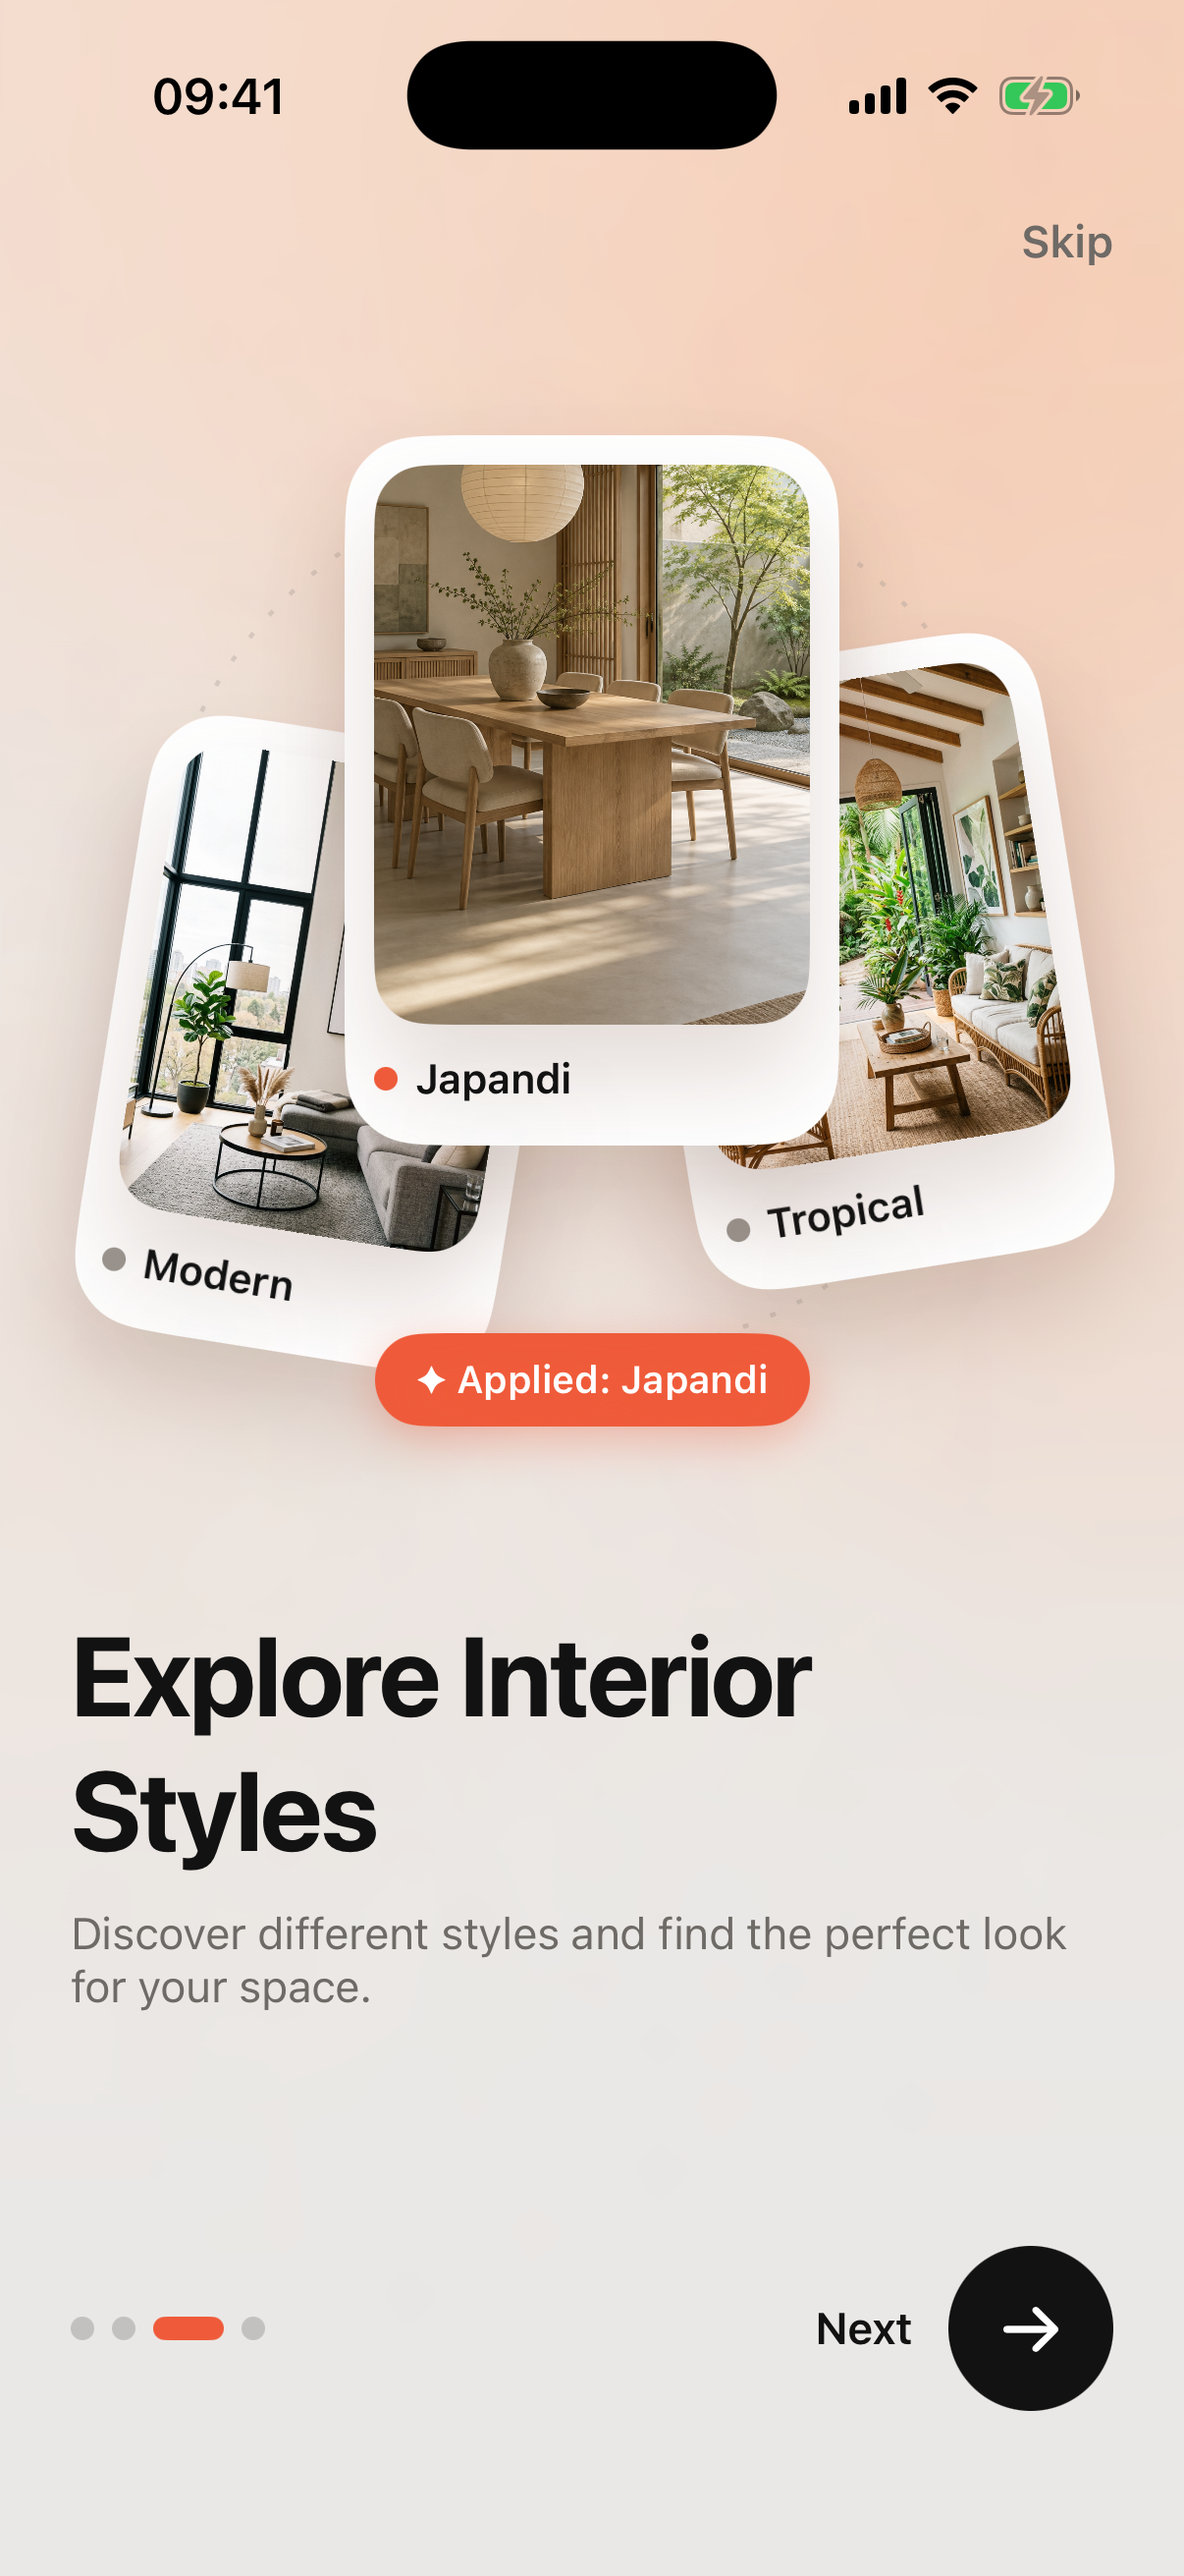
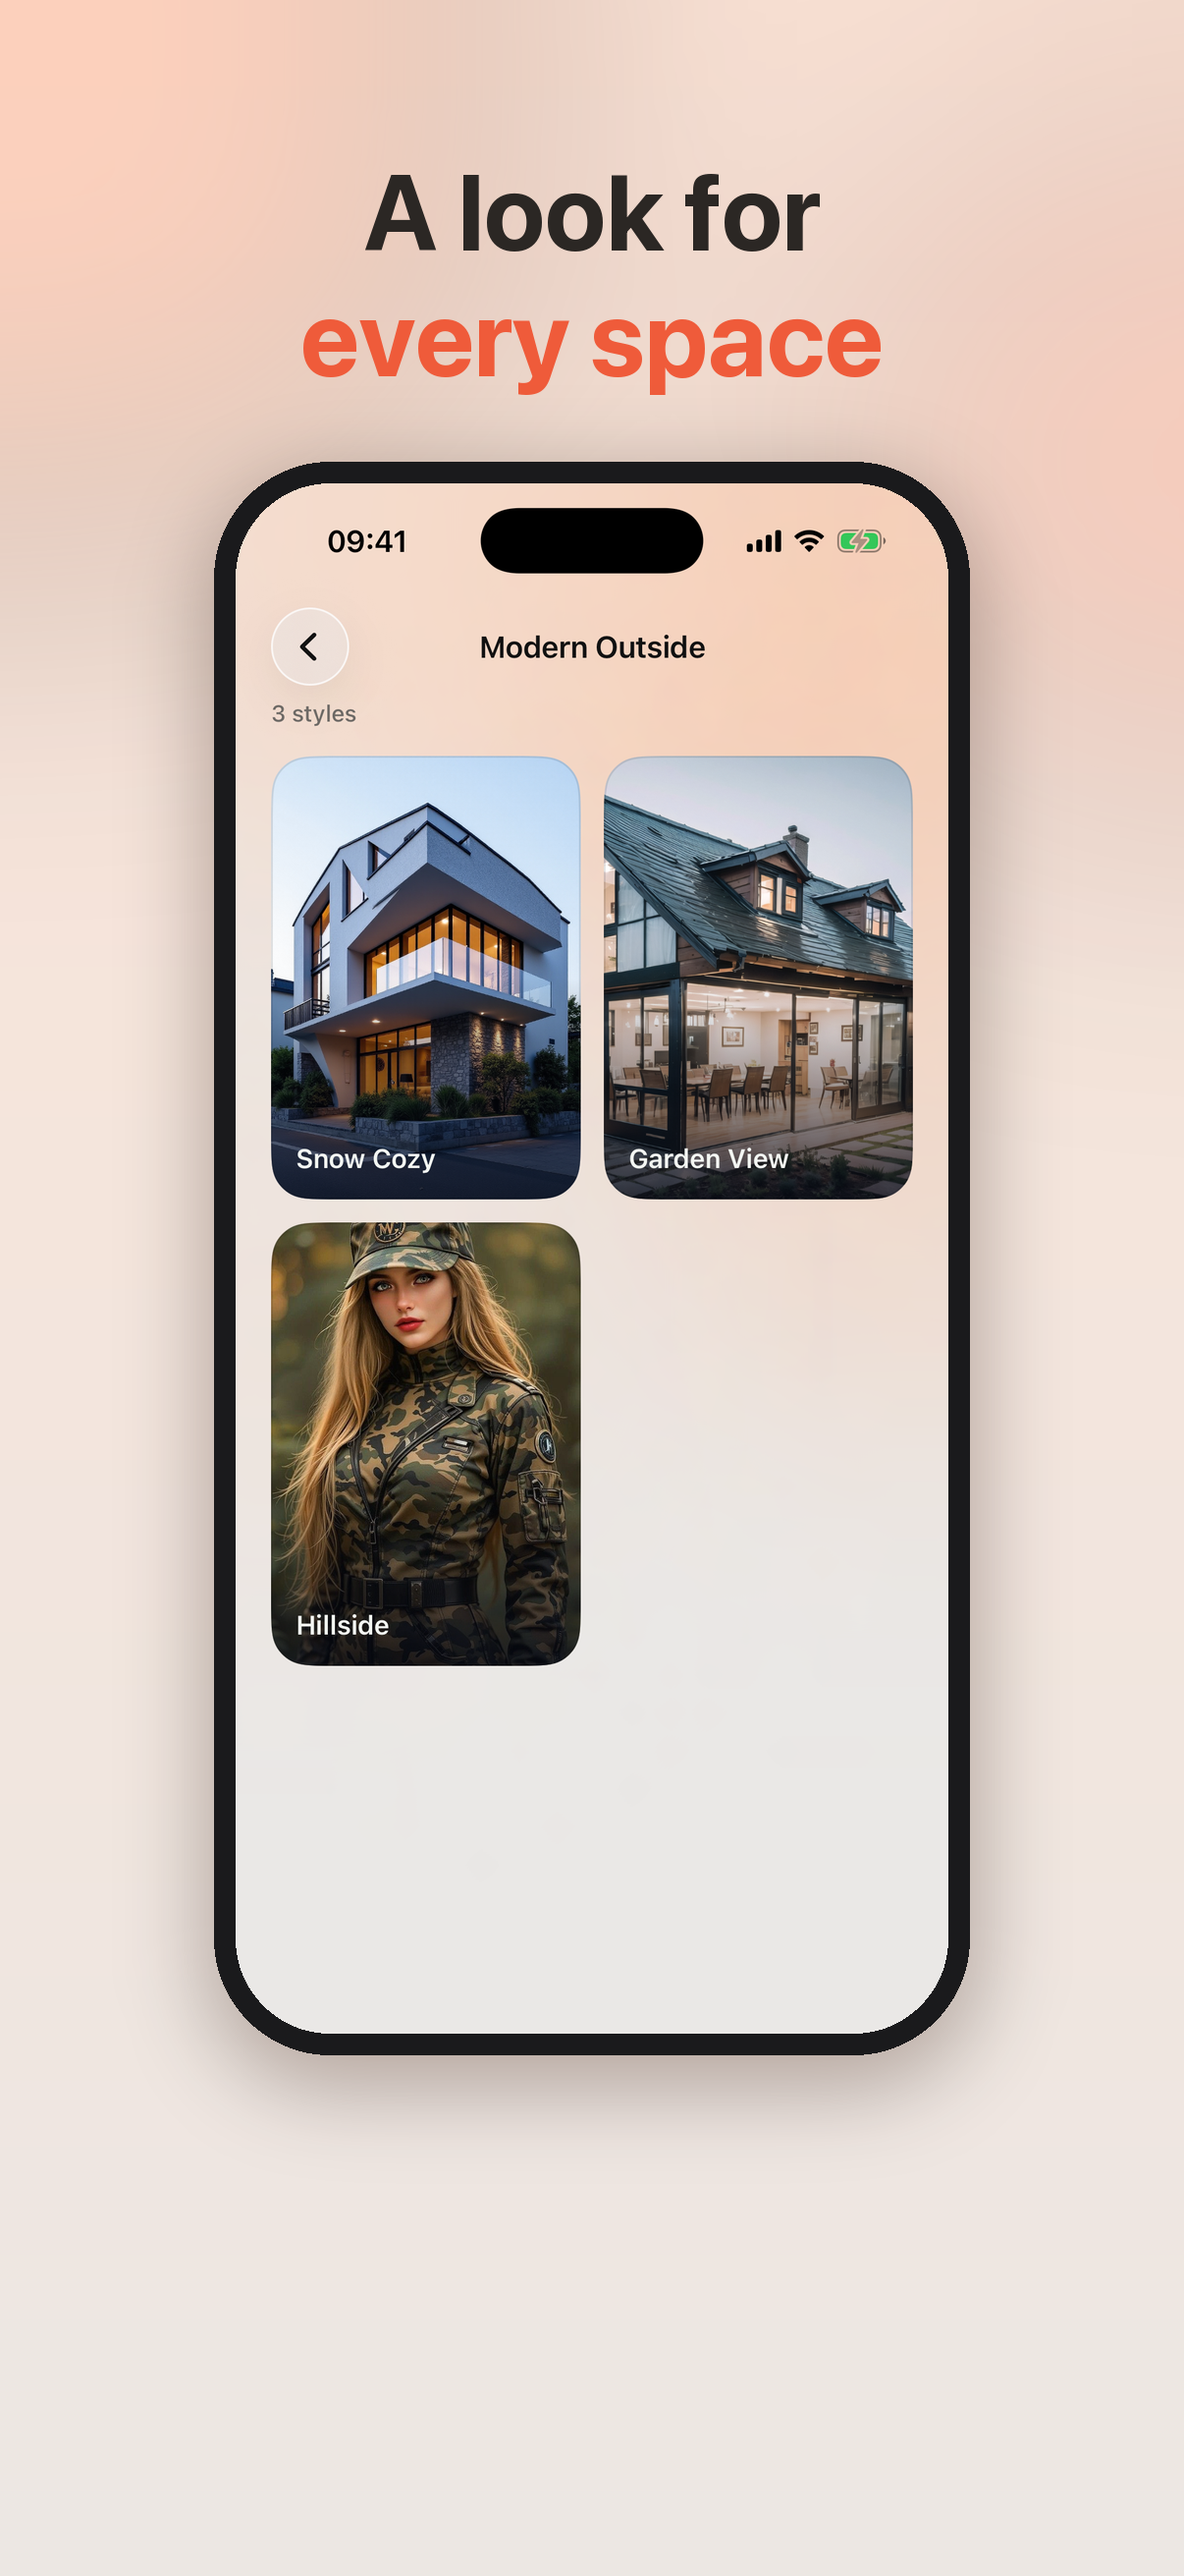
Marketing App Store screenshots (branded frame + headline + mockup)
Replace the raw app captures with proper marketing screenshots, matching the
3dmap reference style: Coral-Glass gradient + glow background, a bold two-tone
headline, and the real app UI inside a phone mockup with a drop shadow.

- scripts/store/make_screenshots.py — Pillow compositor (1206×2622 + a
  1290×2796 source copy), headlines configurable in FRAMES
- scripts/store/shots/ — the 5 raw app captures (home, chat, category,
  detail, language) it composes from, for re-rendering
- AppStore/screenshots/en/ — 5 frames: Reimagine any room / Your own AI
  Designer / A look for every space / Try any style in seconds / Private —
  16 languages
- Update screenshots/README.md + metadata.md

diff --git a/scripts/store/make_screenshots.py b/scripts/store/make_screenshots.py
@@ -1,0 +1,134 @@
+#!/usr/bin/env python3
+"""Compose App Store *marketing* screenshots for Abodi.
+
+Each frame = branded Coral-Glass background + a bold two-tone headline + the
+real app screenshot inside a phone mockup. Output 1206x2622 (iPhone Dynamic
+Island "medium display" slot). Re-run after recapturing the raw app screens:
+
+    python3 scripts/store/make_screenshots.py
+
+Raw app screens (1206x2622) are read from scripts/store/shots/ ; put recaptured
+ones there (xcrun simctl io "iPhone 17 Pro" screenshot <name>.png).
+"""
+import pathlib
+from PIL import Image, ImageDraw, ImageFont, ImageFilter
+
+ROOT = pathlib.Path(__file__).resolve().parents[2]
+SHOTS = pathlib.Path(__file__).resolve().parent / "shots"
+OUT = ROOT / "AppStore" / "screenshots" / "en"
+SRC = ROOT / "AppStore" / "screenshots" / "src-1290x2796"
+
+W, H = 1206, 2622
+INK = (43, 39, 36)
+CORAL = (239, 91, 58)
+
+# Background gradient (top warm peach -> soft light), matching Coral Glass.
+TOP = (251, 227, 214)
+BOT = (236, 231, 227)
+
+
+def load_font(size, bold=True):
+    # Prefer SF Pro (matches iOS); fall back to Arial Bold.
+    try:
+        f = ImageFont.truetype("/System/Library/Fonts/SFNS.ttf", size)
+        if bold:
+            try: f.set_variation_by_name("Bold")
+            except Exception:
+                try: f.set_variation_by_axes([700])
+                except Exception: pass
+        return f
+    except Exception:
+        p = "/System/Library/Fonts/Supplemental/Arial Bold.ttf" if bold \
+            else "/System/Library/Fonts/Supplemental/Arial.ttf"
+        return ImageFont.truetype(p, size)
+
+
+def background():
+    bg = Image.new("RGB", (W, H))
+    px = bg.load()
+    for y in range(H):
+        t = y / H
+        px0 = tuple(round(TOP[i] + (BOT[i] - TOP[i]) * t) for i in range(3))
+        for x in range(W):
+            px[x, y] = px0
+    # Soft coral glow blobs for depth.
+    glow = Image.new("RGBA", (W, H), (0, 0, 0, 0))
+    gd = ImageDraw.Draw(glow)
+    gd.ellipse([-260, -200, 520, 560], fill=(255, 158, 120, 70))
+    gd.ellipse([820, 120, 1500, 820], fill=(239, 91, 58, 45))
+    glow = glow.filter(ImageFilter.GaussianBlur(170))
+    bg = Image.alpha_composite(bg.convert("RGBA"), glow)
+    return bg.convert("RGB")
+
+
+def rounded_mask(size, radius):
+    m = Image.new("L", size, 0)
+    ImageDraw.Draw(m).rounded_rectangle([0, 0, size[0] - 1, size[1] - 1], radius=radius, fill=255)
+    return m
+
+
+def draw_centered(draw, text, font, y, fill):
+    w = draw.textbbox((0, 0), text, font=font)[2]
+    draw.text(((W - w) / 2, y), text, font=font, fill=fill)
+
+
+def render(shot_name, line1, line2, out_name):
+    canvas = background()
+    draw = ImageDraw.Draw(canvas)
+
+    # Headline (two lines, two-tone).
+    font = load_font(108)
+    lh = 128
+    top = 150
+    draw_centered(draw, line1, font, top, INK)
+    draw_centered(draw, line2, font, top + lh, CORAL)
+
+    # Phone mockup with the real screenshot.
+    shot = Image.open(SHOTS / shot_name).convert("RGB")
+    screen_w = 726
+    screen_h = round(screen_w * H / W)          # keep the 1206:2622 aspect
+    shot = shot.resize((screen_w, screen_h), Image.LANCZOS)
+    s_rad = 96
+    shot.putalpha(rounded_mask((screen_w, screen_h), s_rad))
+
+    bezel = 22
+    pw, ph = screen_w + 2 * bezel, screen_h + 2 * bezel
+    phone = Image.new("RGBA", (pw, ph), (0, 0, 0, 0))
+    ImageDraw.Draw(phone).rounded_rectangle([0, 0, pw - 1, ph - 1], radius=s_rad + bezel,
+                                            fill=(26, 26, 28, 255))
+    phone.alpha_composite(shot, (bezel, bezel))
+
+    px = (W - pw) // 2
+    py = 470
+    # Drop shadow.
+    shadow = Image.new("RGBA", (W, H), (0, 0, 0, 0))
+    ImageDraw.Draw(shadow).rounded_rectangle([px, py + 26, px + pw, py + ph + 26],
+                                             radius=s_rad + bezel, fill=(80, 40, 25, 90))
+    shadow = shadow.filter(ImageFilter.GaussianBlur(44))
+    canvas = Image.alpha_composite(canvas.convert("RGBA"), shadow)
+    canvas.alpha_composite(phone, (px, py))
+
+    OUT.mkdir(parents=True, exist_ok=True)
+    SRC.mkdir(parents=True, exist_ok=True)
+    final = canvas.convert("RGB")
+    final.save(OUT / out_name)
+    # 6.9" source copy at 1290x2796.
+    final.resize((1290, 2796), Image.LANCZOS).save(SRC / out_name)
+    print("wrote", OUT / out_name)
+
+
+FRAMES = [
+    ("home.png",     "Reimagine",      "any room",      "01_reimagine.png"),
+    ("chat.png",     "Your own",       "AI Designer",   "02_aidesigner.png"),
+    ("category.png", "A look for",      "every space",   "03_styles.png"),
+    ("detail.png",   "Try any style",  "in seconds",    "04_tryit.png"),
+    ("language.png", "Private —",       "16 languages",  "05_languages.png"),
+]
+
+if __name__ == "__main__":
+    # Clear the old raw captures so only the marketing set remains.
+    for old in OUT.glob("*.png"):
+        old.unlink()
+    for src, l1, l2, out in FRAMES:
+        render(src, l1, l2, out)
+    print("done:", len(FRAMES), "frames")

diff --git a/AppStore/screenshots/README.md b/AppStore/screenshots/README.md
@@ -1,38 +1,34 @@
-# App Store screenshots (Abodi Home)
+# App Store screenshots (Abodi)
 
-**Trạng thái: ĐÃ CÓ BỘ ĐẦU** — 6 ảnh chụp từ app thật (English) ở `en/`, **1206×2622** (hợp lệ cho ô "iPhone with Dynamic Island (medium display)"), nộp lên store được luôn.
+**Marketing screenshots** (không phải raw app capture): nền Coral-Glass + headline lớn 2 màu + mockup điện thoại chứa UI app thật — giống bộ của dự án mẫu 3dmap.
 
-> 4 ảnh đầu là **màn onboarding intro** của app (đã thiết kế sẵn: before/after + headline — rất hợp làm ảnh store); 2 ảnh cuối là màn **Home** và **AI Designer** thật. Muốn "xịn" hơn (thêm nền/headline marketing riêng) thì dựng frame trong Figma rồi thay vào. ⚠ Khi AI đã wire thật, nên chụp lại ảnh có **kết quả generate thật** để không lệch app.
+- `en/` — 5 ảnh **1206×2622** (ô "iPhone with Dynamic Island (medium display)").
+- `src-1290x2796/` — bản **1290×2796** (ô "iPhone 6.9" Display" nếu có).
 
-## Size nộp lên App Store Connect
+## Bộ 5 ảnh (thứ tự upload)
 
-| Ô trên App Store Connect | Kích thước nhận | Thư mục |
-|---|---|---|
-| iPhone with Dynamic Island (medium display) | 1206×2622 **hoặc** 1179×2556 | `en/` |
-| iPhone 6.9" Display (nếu có ô này) | 1290×2796 hoặc 1320×2868 | `src-1290x2796/` |
+| # | File | Headline | Màn app |
+|---|---|---|---|
+| 1 | `01_reimagine` | Reimagine **any room** | Home/Create (hero before/after) |
+| 2 | `02_aidesigner` | Your own **AI Designer** | Màn chat AI |
+| 3 | `03_styles` | A look for **every space** | Lưới style (See all) |
+| 4 | `04_tryit` | Try any style **in seconds** | Style detail |
+| 5 | `05_languages` | Private — **16 languages** | Màn chọn ngôn ngữ (cờ) |
 
-- Đặt bản gốc **1290×2796** vào `src-1290x2796/`, bản resize **1179×2556** (cùng tỉ lệ, không méo) vào `en/`.
-- Nếu `TARGETED_DEVICE_FAMILY = "1"` (chỉ iPhone, khuyến nghị) → **không cần ảnh iPad**. Nếu giữ `"1,2"` thì phải thêm ảnh **iPad 13"** (2064×2752).
-- Trang store chỉ English → chỉ cần bộ `en/`. Tối đa 10 ảnh/ô (dùng 6).
+## Tạo lại
 
-## 6 ảnh hiện có (`en/`, thứ tự upload)
+Ảnh được **compose bằng script** (Pillow), không dựng tay:
 
-1. `01_makeover` — **AI Room Makeover** (intro: before/after + "Reimagine any room")
-2. `02_advice` — **AI Design Advice** (intro: trợ lý AI tư vấn)
-3. `03_styles` — **Explore Interior Styles** (intro: nhiều style)
-4. `04_inspiration` — **Discover Inspiration** (intro: khám phá ý tưởng)
-5. `05_home` — **Home / Create** thật ("Reimagine any room", catalog style)
-6. `06_chat` — **AI Designer** thật (màn welcome + gợi ý câu hỏi)
+1. Chụp lại màn app thật (English) vào `scripts/store/shots/`:
+   ```bash
+   xcrun simctl io "iPhone 17 Pro" screenshot scripts/store/shots/home.png
+   ```
+   (các tên cần: `home.png`, `chat.png`, `category.png`, `detail.png`, `language.png`)
+2. Render:
+   ```bash
+   python3 scripts/store/make_screenshots.py
+   ```
+   → ghi đè `en/` + `src-1290x2796/`. Sửa headline/thêm frame trong `FRAMES` của script.
 
-> Tất cả 1206×2622. Nếu đổi UI thì chụp lại bằng: `xcrun simctl io "iPhone 17 Pro" screenshot AppStore/screenshots/en/<tên>.png` (app đang để English). Khi AI wire thật, nên thêm 1 ảnh **kết quả generate thật** (before/after result) thay cho 1 intro.
-
-## Export lại khi sửa thiết kế Figma
-
-Export PNG scale 1 (ra 1290×2796), rồi resize về 1179×2556 (giữ tỉ lệ):
-
-```bash
-python3 - <<'PY'
-from PIL import Image
-Image.open("src-1290x2796/01_redesign.png").convert("RGB").resize((1179,2556), Image.LANCZOS).save("en/01_redesign.png")
-PY
-```
+> ⚠ Khi AI generate chạy thật (có creds Code12), nên chụp lại 1 màn **kết quả generate thật** (before/after result) rồi thêm 1 frame cho nó.
+> App chỉ iPhone (`TARGETED_DEVICE_FAMILY="1"`) → không cần ảnh iPad.

diff --git a/AppStore/metadata.md b/AppStore/metadata.md
@@ -118,17 +118,11 @@ First release of Abodi.
 ## 3. Icon và ảnh chụp màn hình
 
 - Icon app: `AppStore/AppIcon-1024.png`, 1024×1024, không nền trong suốt, không bo góc (Apple tự bo). App Store lấy icon từ bản build nên **không cần tải file này lên** — để lưu trữ/gửi designer.
-- Ảnh chụp: ✅ **đã có bộ đầu** — 6 ảnh **1206×2622** ở `AppStore/screenshots/en/` (chụp từ app thật, English), nộp lên ô "iPhone with Dynamic Island (medium display)" được luôn.
-- **Size đẩy lên store:** ô "iPhone with Dynamic Island (medium display)" nhận **1206×2622** hoặc **1179×2556**; ô "iPhone 6.9" Display" nhận **1290×2796**.
-- 6 ảnh (theo thứ tự upload):
-  1. **01_makeover** — AI Room Makeover (before/after + "Reimagine any room")
-  2. **02_advice** — AI Design Advice (trợ lý AI)
-  3. **03_styles** — Explore Interior Styles
-  4. **04_inspiration** — Discover Inspiration
-  5. **05_home** — Home/Create thật (catalog style)
-  6. **06_chat** — AI Designer welcome thật
+- Ảnh chụp: ✅ **ảnh MARKETING** (nền Coral-Glass + headline 2 màu + mockup điện thoại chứa UI thật) — 5 ảnh **1206×2622** ở `AppStore/screenshots/en/` (+ bản 1290×2796 ở `src-1290x2796/`). Tạo bằng `python3 scripts/store/make_screenshots.py` (xem `screenshots/README.md`).
+- **Size:** ô "iPhone with Dynamic Island (medium display)" nhận **1206×2622**; ô "iPhone 6.9" Display" nhận **1290×2796**.
+- 5 ảnh (thứ tự upload): `01_reimagine` (Reimagine any room), `02_aidesigner` (Your own AI Designer), `03_styles` (A look for every space), `04_tryit` (Try any style in seconds), `05_languages` (Private — 16 languages).
 - App **chỉ iPhone** (`TARGETED_DEVICE_FAMILY = "1"`) → không cần ảnh iPad. Tối đa 10 ảnh/slot.
-- ⚠ Khi AI wire thật, nên chụp lại 1 ảnh **kết quả generate thật** (before/after result) để không lệch app.
+- ⚠ Khi AI wire thật, chụp lại màn **kết quả generate thật** rồi thêm 1 frame.
 
 ## 4. Ghi chú cho người duyệt (App Review Information › Notes)
 
